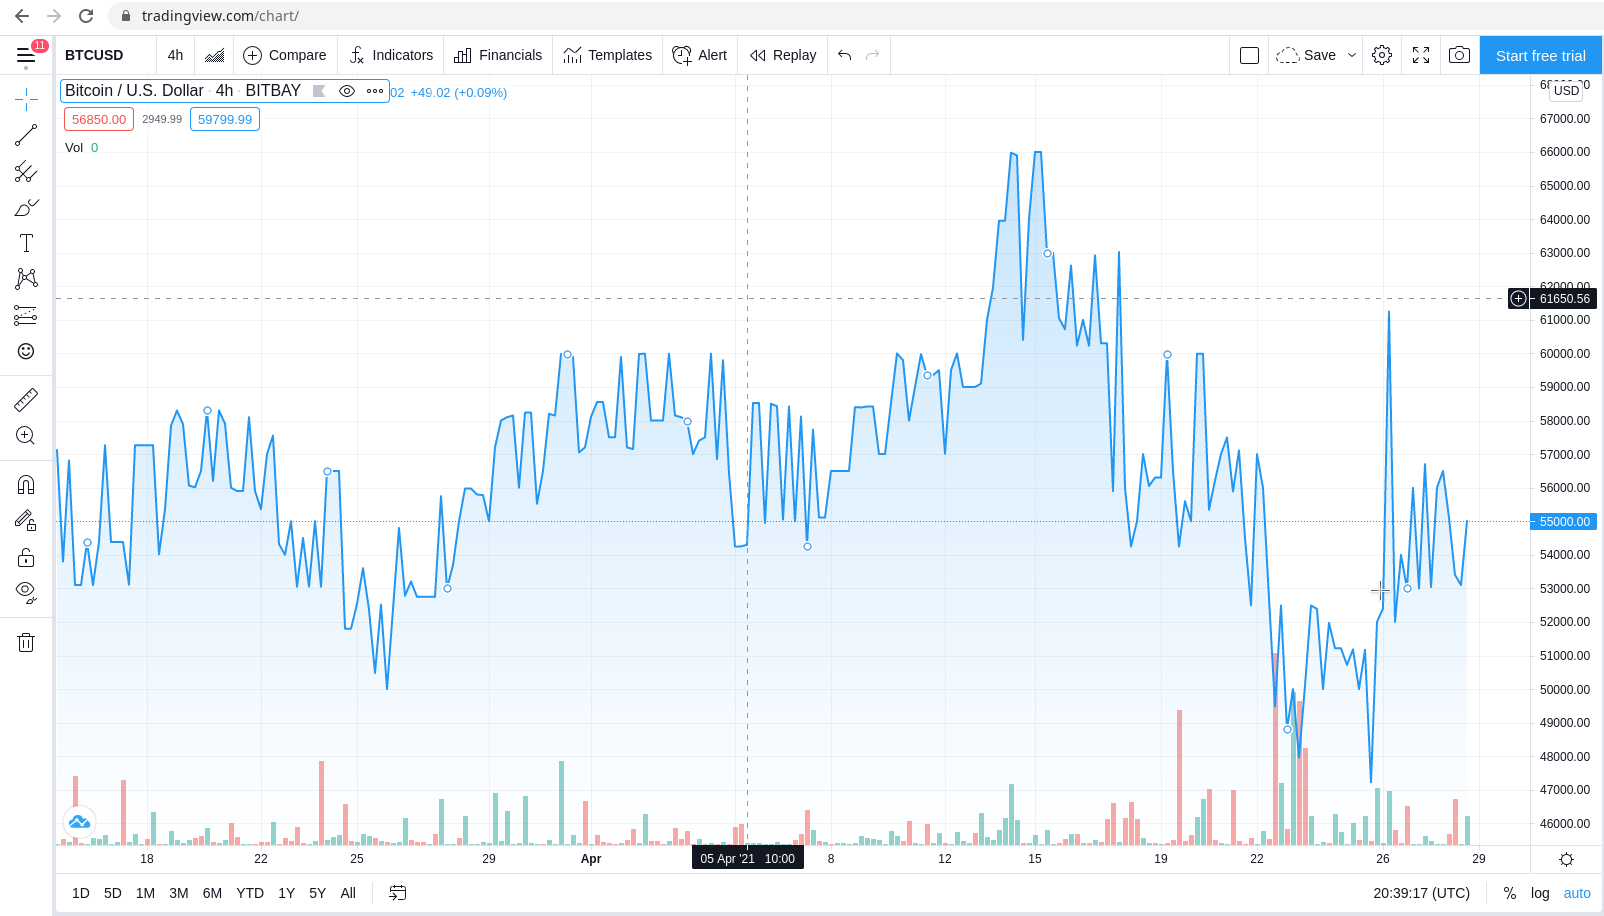
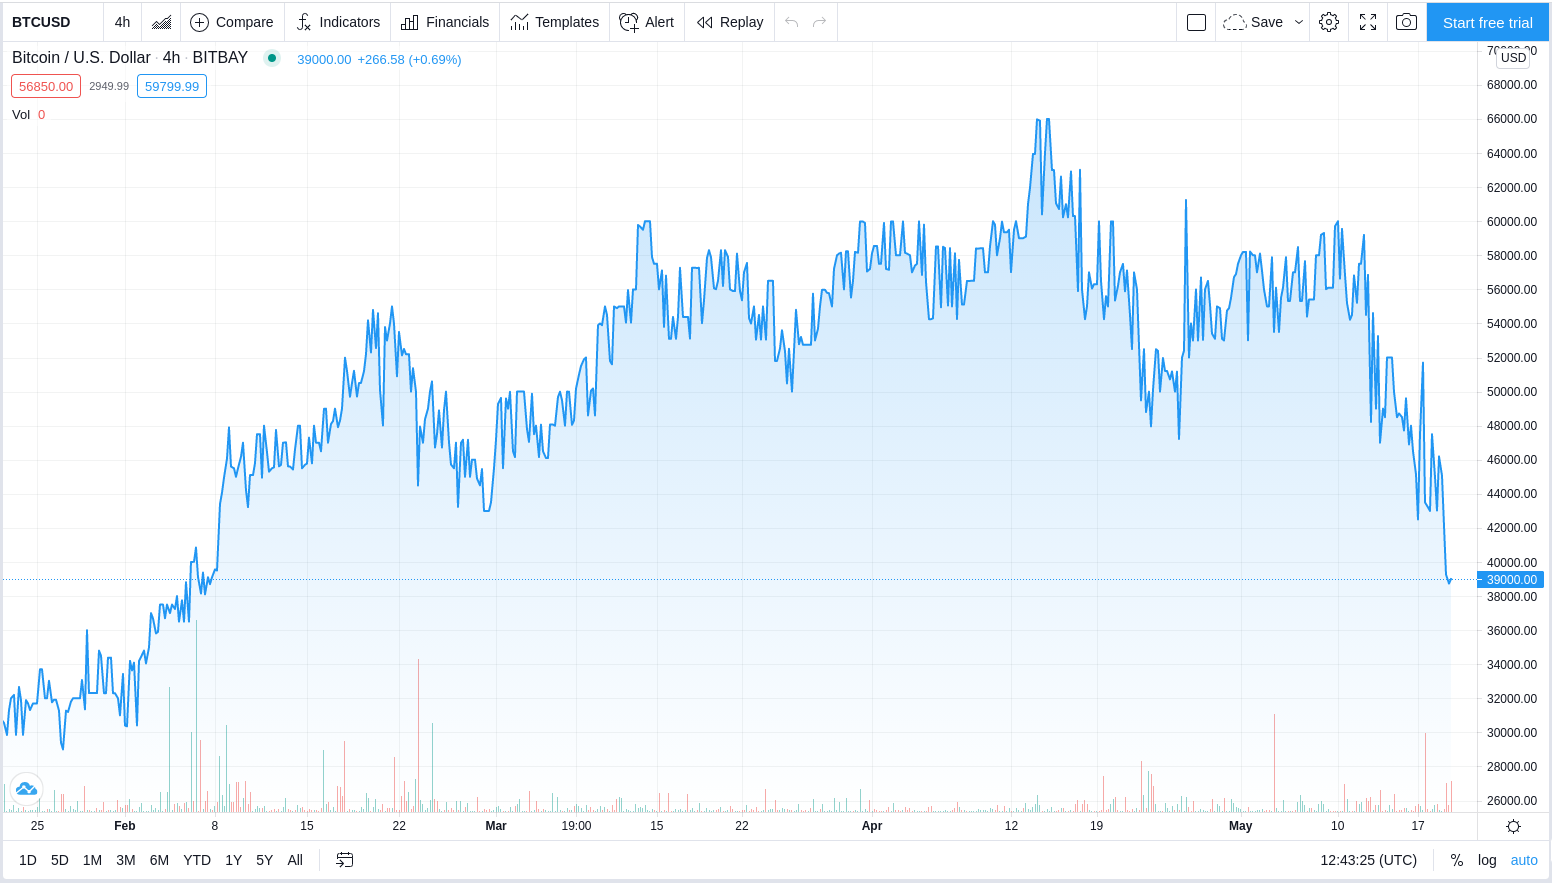
Updates after latest crash

Changed region(s): [[0.0, 0.0, 1.0, 1.0], [0.0, 0.0, 0.5567, 0.3975], [0.0, 0.4281, 0.0309, 0.4892]]

diff --git a/blockchain/blockchain.html b/blockchain/blockchain.html
@@ -32,7 +32,7 @@
 					<section>
 						<h2>¿Como surge?</h2>
 						<ul style="font-size: 90%;">
-							<li style="font-size: 75%;">Subprime mortgage crisis (2008): ¿Es realmente el origen?
+							<li style="font-size: 75%;">Subprime mortgage crisis (2008): ¿Is it really the origin?
 								<ul>
 									<li><a href="https://analyticsindiamag.com/origin-bitcoin-brief-history/">How do the actions of your Government affect your money?</a></li>
 									<li><a href="https://www.coindesk.com/bitcoin-financial-crisis">Bitcoin Was Not a Response to the Financial Crisis</a></li>
@@ -40,6 +40,7 @@
 							</li>
 							<li>Satoshi Nakamoto <span style="font-size: 80%;">publication on a small cryptography IIRC mailing list in late 2008</span> <a href="https://bitcoin.org/bitcoin.pdf">his paper</a>. <span style="font-size: 80%;">(<a href="https://www.mail-archive.com/search?l=cryptography@metzdowd.com&q=from:%22Satoshi+Nakamoto%22">mails</a>, <a href="https://satoshi.nakamotoinstitute.org/emails/">forum</a>, <a href="https://www.nytimes.com/2013/12/15/sunday-review/the-bitcoin-ideology.html">NY Times</a> & <a href="https://cryptoaudiences.com/blog/a-decade-of-crypto-advertising">10yrs</a></span>)</li>
 							<li><span style="font-size: 80%;">Quote: </span>"The root problem with conventional currency is all the trust that’s required to make it work." <span style="font-size: 75%;">(Also see Yuval Noah Harari "Homo Deus" inspired <a href="https://www.ted.com/talks/yuval_noah_harari_what_explains_the_rise_of_humans?language=en">TED Talk</a>)</span></li>
+							<li>Today currency is also <a href="https://en.wikipedia.org/wiki/History_of_money#1971%E2%80%93present">Free-floating</a> like blockchain assets.</li>
 						</ul>
 					</section>
 					<section>
@@ -47,7 +48,7 @@
 						<p style="font-size: 40%;">
 							<a href="files/Bitcoin_Value.png"><img src="files/Bitcoin_Value.png"/></a>
 							<br/>
-							<a href="https://www.tradingview.com/chart/">Valor en vivo desde tradingview</a> y cosas que pueden afectar el precio como <a href="https://www.scmp.com/business/article/3133281/bitcoin-sinks-after-musk-halts-tesla-electric-car-purchases-cryptocurrency">Tesla no acepta más bitcoin</a> (2021/05/12).
+							<a href="https://www.tradingview.com/chart/">Valor en vivo desde tradingview</a> y cosas que pueden afectar el precio en la <a href="./blockchain.html#/3/7">sección de volatilidad</a>.
 						</p>
 					</section>
 					<section>
@@ -367,8 +368,8 @@
 						<ul class="col" style="width: 350px; display: inline-block; vertical-align: top;">
 							<a href="files/Bitcoin_Crashes_2.png"><img style="height: 300px;" src="files/Bitcoin_Crashes_2.png"/></a>
 							<p style="font-size: 40%;"><a href="https://howmuch.net/articles/bitcoin-all-major-crashes">Articulo HowMuch</a> y <a href="https://www.tradingview.com/chart/">gráfico en tiempo real</a> (elegir BTCUSD).</p>
-							<p style="font-size: 40%;">Ver <a href="https://coinmarketcap.com/currencies/dogecoin/">caida de Dodgecoin</a> después de Elon Musk hablar en SNL <span style="font-size: 75%;">(8 de Mayo 2021)</span>: <a href="https://en.wikipedia.org/wiki/Dogecoin">Dodgecoin</a> es un fork de <a href="https://en.wikipedia.org/wiki/Litecoin">Litecoin</a> que es a su vez un fork de Bitcoin.</p>
 						</ul>
+						<p style="font-size: 40%;">Ver <a href="https://coinmarketcap.com/currencies/dogecoin/">caida de Dodgecoin</a> después de hablar Elon Musk en SNL <span style="font-size: 90%;">el 8 de Mayo 2021</span> <span style="font-size: 75%;">(<a href="https://en.wikipedia.org/wiki/Dogecoin">Dodgecoin</a> es un fork de <a href="https://en.wikipedia.org/wiki/Litecoin">Litecoin</a> que es un fork de Bitcoin)</span>. <br/>Luego la caida del Bitcoin después de que Tesla no lo acepte como forma de pago <span style="font-size: 75%;">(<a href="https://twitter.com/elonmusk/status/1392602041025843203">twit de Elon Musk</a> el 12 de Mayo 2021)</span> <br/>Y finalmente el impacto de las <a href="https://www.reuters.com/technology/chinese-financial-payment-bodies-barred-cryptocurrency-business-2021-05-18/">ultimas restricciones en China a las digital currencies</a> <span style="font-size: 75%;">(impuesto el 18 de Mayo 2021)</span>.</p>
 					</section>
 					<section>
 						<h2>Stable Coins</h2>
